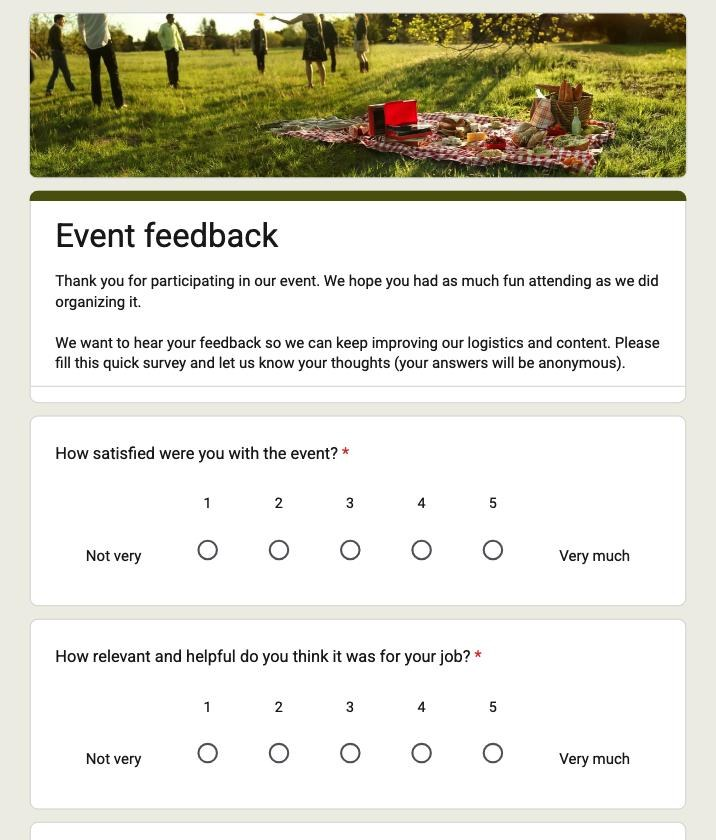
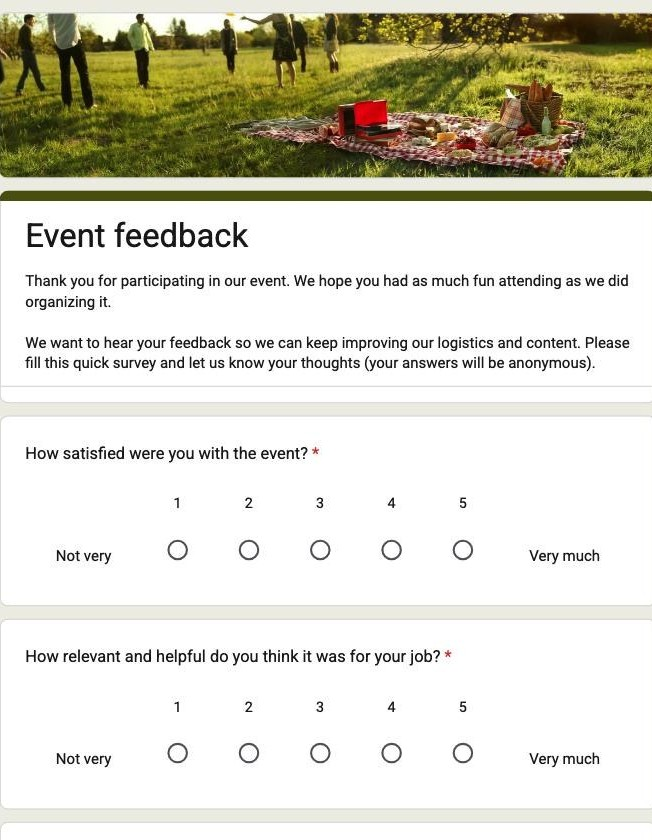
Make templates page skimmable and fix screenshot contrast
Readability and presentation pass on best-google-forms-templates.

- Re-cropped all 17 screenshots tight to the form card (uniform 652px).
  The old crop kept ~30px of Google's pale tinted page background on
  each side, which washed out against the white blog column.
- Unified image treatment: 1px #d8dce3 border plus a soft shadow, so
  each card reads as a distinct object instead of a floating tint.
- Replaced the "Formester equivalent." label with "In Formester." The
  old one read like a schema field repeated 17 times.
- Added an "All 17 at a glance" table (template, section, use it for,
  where it stops) with in-page jump links, and an id on every H4, so
  the page can be skimmed and navigated instead of read start to end.
- Rewrote description and metaDescription to lead with the per-template
  screenshots, keeping the JSON-LD copies in sync.

blacklist_check.py: 0 hits. ItemList still matches H4 order, FAQ 9=9.

diff --git a/content/blog/best-google-forms-templates.md b/content/blog/best-google-forms-templates.md
@@ -1,9 +1,9 @@
 ---
 slug: "best-google-forms-templates"
 title: "All 17 Google Forms Templates (and What to Use When They Run Out)"
-description: "Every template in the Google Forms gallery, all 17 across Work, Personal and Education, with what each one is good for and where it stops. Plus the Formester equivalent when the gallery runs out."
+description: "Every template in the Google Forms gallery, all 17 across Work, Personal and Education, with a screenshot of each, what it is good for and where it stops. Plus what to use when the gallery runs out."
 metaTitle: "All 17 Google Forms Templates: Full Gallery List"
-metaDescription: "All 17 Google Forms templates listed by section, with what each is good for and its limits. Plus what to use when the gallery runs out."
+metaDescription: "All 17 Google Forms templates with a screenshot of each, what it is good for and where it stops. Plus what to use when the gallery runs out."
 keywords: "google form templates,\ngoogle forms templates,\nfree google forms templates,\ngoogle form templates for students,\ngoogle form templates for business,\ngoogle forms template gallery,\nhow many templates does google forms have,"
 author: "Harish Kumar"
 authorProfile: "https://www.linkedin.com/in/harish-kumar2424/"
@@ -11,7 +11,7 @@ coverImgAlt: "Cover art for a guide to all 17 Google Forms templates"
 featured: false
 coverImg: {"url":"https://formester-strapi.s3.ap-south-1.amazonaws.com/all_17_google_forms_templates_cover_d301698a8f.png","width":2400,"height":1350}
 metaImage: []
-jsonld: [{"@context":"https://schema.org","@graph":[{"@type":"Organization","@id":"https://formester.com/#organization","url":"https://formester.com/","name":"Formester","logo":{"@type":"ImageObject","url":"https://formester.com/logo.png"}},{"@type":"WebPage","@id":"https://formester.com/blog/best-google-forms-templates/#webpage","url":"https://formester.com/blog/best-google-forms-templates/","name":"All 17 Google Forms Templates: Full Gallery List","isPartOf":{"@id":"https://formester.com/#organization"},"breadcrumb":{"@id":"https://formester.com/blog/best-google-forms-templates/#breadcrumb"},"inLanguage":"en-US","description":"All 17 Google Forms templates listed by section, with what each is good for and its limits. Plus what to use when the gallery runs out.","datePublished":"2026-06-04","dateModified":"2026-08-26"},{"@type":"BreadcrumbList","@id":"https://formester.com/blog/best-google-forms-templates/#breadcrumb","itemListElement":[{"@type":"ListItem","position":1,"name":"Home","item":"https://formester.com/"},{"@type":"ListItem","position":2,"name":"Blog","item":"https://formester.com/blog/"},{"@type":"ListItem","position":3,"name":"All 17 Google Forms Templates (and What to Use When They Run Out)","item":"https://formester.com/blog/best-google-forms-templates/"}]},{"@type":"BlogPosting","@id":"https://formester.com/blog/best-google-forms-templates/#article","headline":"All 17 Google Forms Templates (and What to Use When They Run Out)","image":"https://formester-strapi.s3.ap-south-1.amazonaws.com/all_17_google_forms_templates_cover_d301698a8f.png","author":{"@type":"Person","name":"Harish Kumar","url":"https://www.linkedin.com/in/harish-kumar2424/"},"publisher":{"@id":"https://formester.com/#organization"},"inLanguage":"en-US","description":"All 17 Google Forms templates listed by section, with what each is good for and its limits. Plus what to use when the gallery runs out.","datePublished":"2026-06-04","dateModified":"2026-08-26","mainEntityOfPage":{"@id":"https://formester.com/blog/best-google-forms-templates/#webpage"}},{"@type":"FAQPage","@id":"https://formester.com/blog/best-google-forms-templates/#faq","mainEntity":[{"@type":"Question","name":"How many templates does Google Forms have?","acceptedAnswer":{"@type":"Answer","text":"Seventeen in the native gallery: six under Work, six under Personal and five under Education. Workspace accounts may see an extra tab holding templates published by their own organisation, which sits on top of those 17."}},{"@type":"Question","name":"How do I copy a Google Forms template?","acceptedAnswer":{"@type":"Answer","text":"Click the tile in the template gallery. Google creates a copy in your Drive and opens it straight away, so there is no separate copy step. There is also no preview, which means clicking a template you were only curious about leaves a new form behind."}},{"@type":"Question","name":"Are Google Forms templates really free?","acceptedAnswer":{"@type":"Answer","text":"Yes, on both personal and Workspace accounts, with no limit on how many forms you create from them. The practical limit is storage: file upload answers consume your Drive quota, and a full Drive stops a form accepting uploads."}},{"@type":"Question","name":"Can I customise a Google Forms template after I copy it?","acceptedAnswer":{"@type":"Answer","text":"Yes, every question and setting is editable. Click a question to change its type or wording, toggle the asterisk to make it required, and use the Settings tab for form-level options such as collecting email addresses. Appearance is limited to theme colour, header image and four fonts."}},{"@type":"Question","name":"How do I create my own template in Google Forms?","acceptedAnswer":{"@type":"Answer","text":"There is no save-as-template button on a personal account. Build the form once, then use Make a copy from the three-dot menu each time you need a fresh one. Workspace admins can publish a form into a shared organisation gallery, which is the only true template feature Google offers."}},{"@type":"Question","name":"Can a Google Forms template collect payments?","acceptedAnswer":{"@type":"Answer","text":"No. Google Forms has no payment field and no processor integration, so order forms and ticketed events need a separate payment step after submission. Anything that has to take money on the form itself needs a builder with native payment fields."}},{"@type":"Question","name":"Can I add conditional logic to a Google Forms template?","acceptedAnswer":{"@type":"Answer","text":"Only at section level. A multiple choice answer can send someone to a different section, but you cannot show or hide an individual question based on a previous answer. Per-question logic needs a different builder."}},{"@type":"Question","name":"Can ChatGPT create a Google Form for me?","acceptedAnswer":{"@type":"Answer","text":"Not directly, because it has no write access to Google Forms. It can draft your questions and answer options for you to paste in. Tools built for this generate the form itself from a prompt."}},{"@type":"Question","name":"What is the best Google Forms template to start from?","acceptedAnswer":{"@type":"Answer","text":"Contact Information for anything that just gathers details, Event Registration for anything ticketed, and Blank Quiz for anything graded, because it is the only one with the quiz setting already switched on. Everything else in the gallery is a variation on those three shapes."}}]},{"@type":"ItemList","@id":"https://formester.com/blog/best-google-forms-templates/#itemlist","name":"Google Forms native template gallery","numberOfItems":17,"itemListElement":[{"@type":"ListItem","position":1,"name":"Event Feedback"},{"@type":"ListItem","position":2,"name":"Order Form"},{"@type":"ListItem","position":3,"name":"Job Application"},{"@type":"ListItem","position":4,"name":"Time Off Request"},{"@type":"ListItem","position":5,"name":"Work Request"},{"@type":"ListItem","position":6,"name":"Customer Feedback"},{"@type":"ListItem","position":7,"name":"Contact Information"},{"@type":"ListItem","position":8,"name":"Find a Time"},{"@type":"ListItem","position":9,"name":"Event RSVP"},{"@type":"ListItem","position":10,"name":"Party Invite"},{"@type":"ListItem","position":11,"name":"T-Shirt Sign Up"},{"@type":"ListItem","position":12,"name":"Event Registration"},{"@type":"ListItem","position":13,"name":"Blank Quiz"},{"@type":"ListItem","position":14,"name":"Exit Ticket"},{"@type":"ListItem","position":15,"name":"Assessment"},{"@type":"ListItem","position":16,"name":"Worksheet"},{"@type":"ListItem","position":17,"name":"Course Evaluation"}]},{"@type":"SoftwareApplication","@id":"https://formester.com/#software","url":"https://formester.com/","name":"Formester","applicationCategory":"BusinessApplication","operatingSystem":"Web, iOS, Android","offers":{"@type":"Offer","price":"0","priceCurrency":"USD","description":"Free forever plan, no credit card required"}}]}]
+jsonld: [{"@context":"https://schema.org","@graph":[{"@type":"Organization","@id":"https://formester.com/#organization","url":"https://formester.com/","name":"Formester","logo":{"@type":"ImageObject","url":"https://formester.com/logo.png"}},{"@type":"WebPage","@id":"https://formester.com/blog/best-google-forms-templates/#webpage","url":"https://formester.com/blog/best-google-forms-templates/","name":"All 17 Google Forms Templates: Full Gallery List","isPartOf":{"@id":"https://formester.com/#organization"},"breadcrumb":{"@id":"https://formester.com/blog/best-google-forms-templates/#breadcrumb"},"inLanguage":"en-US","description":"All 17 Google Forms templates with a screenshot of each, what it is good for and where it stops. Plus what to use when the gallery runs out.","datePublished":"2026-06-04","dateModified":"2026-08-26"},{"@type":"BreadcrumbList","@id":"https://formester.com/blog/best-google-forms-templates/#breadcrumb","itemListElement":[{"@type":"ListItem","position":1,"name":"Home","item":"https://formester.com/"},{"@type":"ListItem","position":2,"name":"Blog","item":"https://formester.com/blog/"},{"@type":"ListItem","position":3,"name":"All 17 Google Forms Templates (and What to Use When They Run Out)","item":"https://formester.com/blog/best-google-forms-templates/"}]},{"@type":"BlogPosting","@id":"https://formester.com/blog/best-google-forms-templates/#article","headline":"All 17 Google Forms Templates (and What to Use When They Run Out)","image":"https://formester-strapi.s3.ap-south-1.amazonaws.com/all_17_google_forms_templates_cover_d301698a8f.png","author":{"@type":"Person","name":"Harish Kumar","url":"https://www.linkedin.com/in/harish-kumar2424/"},"publisher":{"@id":"https://formester.com/#organization"},"inLanguage":"en-US","description":"All 17 Google Forms templates with a screenshot of each, what it is good for and where it stops. Plus what to use when the gallery runs out.","datePublished":"2026-06-04","dateModified":"2026-08-26","mainEntityOfPage":{"@id":"https://formester.com/blog/best-google-forms-templates/#webpage"}},{"@type":"FAQPage","@id":"https://formester.com/blog/best-google-forms-templates/#faq","mainEntity":[{"@type":"Question","name":"How many templates does Google Forms have?","acceptedAnswer":{"@type":"Answer","text":"Seventeen in the native gallery: six under Work, six under Personal and five under Education. Workspace accounts may see an extra tab holding templates published by their own organisation, which sits on top of those 17."}},{"@type":"Question","name":"How do I copy a Google Forms template?","acceptedAnswer":{"@type":"Answer","text":"Click the tile in the template gallery. Google creates a copy in your Drive and opens it straight away, so there is no separate copy step. There is also no preview, which means clicking a template you were only curious about leaves a new form behind."}},{"@type":"Question","name":"Are Google Forms templates really free?","acceptedAnswer":{"@type":"Answer","text":"Yes, on both personal and Workspace accounts, with no limit on how many forms you create from them. The practical limit is storage: file upload answers consume your Drive quota, and a full Drive stops a form accepting uploads."}},{"@type":"Question","name":"Can I customise a Google Forms template after I copy it?","acceptedAnswer":{"@type":"Answer","text":"Yes, every question and setting is editable. Click a question to change its type or wording, toggle the asterisk to make it required, and use the Settings tab for form-level options such as collecting email addresses. Appearance is limited to theme colour, header image and four fonts."}},{"@type":"Question","name":"How do I create my own template in Google Forms?","acceptedAnswer":{"@type":"Answer","text":"There is no save-as-template button on a personal account. Build the form once, then use Make a copy from the three-dot menu each time you need a fresh one. Workspace admins can publish a form into a shared organisation gallery, which is the only true template feature Google offers."}},{"@type":"Question","name":"Can a Google Forms template collect payments?","acceptedAnswer":{"@type":"Answer","text":"No. Google Forms has no payment field and no processor integration, so order forms and ticketed events need a separate payment step after submission. Anything that has to take money on the form itself needs a builder with native payment fields."}},{"@type":"Question","name":"Can I add conditional logic to a Google Forms template?","acceptedAnswer":{"@type":"Answer","text":"Only at section level. A multiple choice answer can send someone to a different section, but you cannot show or hide an individual question based on a previous answer. Per-question logic needs a different builder."}},{"@type":"Question","name":"Can ChatGPT create a Google Form for me?","acceptedAnswer":{"@type":"Answer","text":"Not directly, because it has no write access to Google Forms. It can draft your questions and answer options for you to paste in. Tools built for this generate the form itself from a prompt."}},{"@type":"Question","name":"What is the best Google Forms template to start from?","acceptedAnswer":{"@type":"Answer","text":"Contact Information for anything that just gathers details, Event Registration for anything ticketed, and Blank Quiz for anything graded, because it is the only one with the quiz setting already switched on. Everything else in the gallery is a variation on those three shapes."}}]},{"@type":"ItemList","@id":"https://formester.com/blog/best-google-forms-templates/#itemlist","name":"Google Forms native template gallery","numberOfItems":17,"itemListElement":[{"@type":"ListItem","position":1,"name":"Event Feedback"},{"@type":"ListItem","position":2,"name":"Order Form"},{"@type":"ListItem","position":3,"name":"Job Application"},{"@type":"ListItem","position":4,"name":"Time Off Request"},{"@type":"ListItem","position":5,"name":"Work Request"},{"@type":"ListItem","position":6,"name":"Customer Feedback"},{"@type":"ListItem","position":7,"name":"Contact Information"},{"@type":"ListItem","position":8,"name":"Find a Time"},{"@type":"ListItem","position":9,"name":"Event RSVP"},{"@type":"ListItem","position":10,"name":"Party Invite"},{"@type":"ListItem","position":11,"name":"T-Shirt Sign Up"},{"@type":"ListItem","position":12,"name":"Event Registration"},{"@type":"ListItem","position":13,"name":"Blank Quiz"},{"@type":"ListItem","position":14,"name":"Exit Ticket"},{"@type":"ListItem","position":15,"name":"Assessment"},{"@type":"ListItem","position":16,"name":"Worksheet"},{"@type":"ListItem","position":17,"name":"Course Evaluation"}]},{"@type":"SoftwareApplication","@id":"https://formester.com/#software","url":"https://formester.com/","name":"Formester","applicationCategory":"BusinessApplication","operatingSystem":"Web, iOS, Android","offers":{"@type":"Offer","price":"0","priceCurrency":"USD","description":"Free forever plan, no credit card required"}}]}]
 createdAt: "2025-05-13T06:17:24.920Z"
 updatedAt: "2026-08-26T12:42:46Z"
 publishedAt: "2026-06-04T14:26:39.065Z"
@@ -22,120 +22,149 @@ publishedAt: "2026-06-04T14:26:39.065Z"
 
 <blockquote><p>Google Forms ships <strong>17 templates</strong> in its native gallery, split across Work (6), Personal (6) and Education (5). Open them at <a href="https://docs.google.com/forms/u/0/?ftv=1">forms.google.com</a> and click one. It opens as a new form in your Drive straight away. There is no separate "copy" step and no cost.</p></blockquote>
 
+<h2>All 17 at a glance</h2>
+
+<p>Jump to any template for the screenshot and the detail. The last column is the thing that sends people looking for another tool.</p>
+
+<div class="table-wrap">
+<table>
+<thead><tr><th>Template</th><th>Section</th><th>Use it for</th><th>Where it stops</th></tr></thead>
+<tbody>
+<tr><td><a href="#event-feedback">Event Feedback</a></td><td>Work</td><td>Post-event ratings</td><td>Cannot average the score</td></tr>
+<tr><td><a href="#order-form">Order Form</a></td><td>Work</td><td>Simple orders</td><td>No payment field, no totals</td></tr>
+<tr><td><a href="#job-application">Job Application</a></td><td>Work</td><td>Hiring intake</td><td>Same questions for every role</td></tr>
+<tr><td><a href="#time-off-request">Time Off Request</a></td><td>Work</td><td>Leave requests</td><td>No approval step</td></tr>
+<tr><td><a href="#work-request">Work Request</a></td><td>Work</td><td>Internal tickets</td><td>Priority does not route</td></tr>
+<tr><td><a href="#customer-feedback">Customer Feedback</a></td><td>Work</td><td>Feedback and bug reports</td><td>Records ratings, does not score them</td></tr>
+<tr><td><a href="#contact-information">Contact Information</a></td><td>Personal</td><td>Basic contact details</td><td>Email is never verified</td></tr>
+<tr><td><a href="#find-a-time">Find a Time</a></td><td>Personal</td><td>Group availability</td><td>Slots never close</td></tr>
+<tr><td><a href="#event-rsvp">Event RSVP</a></td><td>Personal</td><td>Headcount for an event</td><td>No capacity cap</td></tr>
+<tr><td><a href="#party-invite">Party Invite</a></td><td>Personal</td><td>Social invites</td><td>No capacity cap, header image only</td></tr>
+<tr><td><a href="#t-shirt-sign-up">T-Shirt Sign Up</a></td><td>Personal</td><td>Collecting sizes</td><td>No stock control</td></tr>
+<tr><td><a href="#event-registration">Event Registration</a></td><td>Personal</td><td>Ticketed events</td><td>No payment, no cap</td></tr>
+<tr><td><a href="#blank-quiz">Blank Quiz</a></td><td>Education</td><td>Graded tests</td><td>No timer, no partial credit</td></tr>
+<tr><td><a href="#exit-ticket">Exit Ticket</a></td><td>Education</td><td>End-of-lesson checks</td><td>Responses not grouped by class</td></tr>
+<tr><td><a href="#assessment">Assessment</a></td><td>Education</td><td>Longer graded sets</td><td>Answer keys on six question types</td></tr>
+<tr><td><a href="#worksheet">Worksheet</a></td><td>Education</td><td>Practice with images</td><td>No reuse across classes</td></tr>
+<tr><td><a href="#course-evaluation">Course Evaluation</a></td><td>Education</td><td>End-of-course ratings</td><td>Anonymous or de-duplicated, not both</td></tr>
+</tbody>
+</table>
+</div>
+
 <h2>The 17 templates Google Forms actually ships</h2>
 
 <p>The gallery lives on the Google Forms home screen. Click <strong>Template gallery</strong> at the top and you get three sections. Clicking any tile creates a working copy in your own Drive straight away.</p>
 
 <h3>Work (6 templates)</h3>
 
-<p><img src="https://formester-strapi.s3.ap-south-1.amazonaws.com/gforms_template_gallery_work_fcd75d04b6.jpg" alt="Google Forms template gallery Work section showing Event Feedback, Order Form, Job Application, Time Off Request, Work Request and Customer Feedback" loading="lazy" style="width:100%;max-width:900px;height:auto;border-radius:8px;border:1px solid #e5e7eb;margin:16px 0;" /></p>
+<p><img src="https://formester-strapi.s3.ap-south-1.amazonaws.com/gforms_template_gallery_work_fcd75d04b6.jpg" alt="Google Forms template gallery Work section showing Event Feedback, Order Form, Job Application, Time Off Request, Work Request and Customer Feedback" loading="lazy" style="width:100%;max-width:100%;height:auto;border-radius:10px;border:1px solid #d8dce3;box-shadow:0 1px 3px rgba(16,24,40,0.08);margin:18px 0;" /></p>
 
-<h4>Event Feedback</h4>
+<h4 id="event-feedback">Event Feedback</h4>
 <p>Linear scales for the ratings and one paragraph field for the comments people actually remember. Five questions, no title page.</p>
-<p><img src="/blog/google-forms-templates/00-event-feedback.jpg" alt="Google Forms Event Feedback template showing a 1 to 5 satisfaction scale from Not very to Very much" loading="lazy" style="width:100%;max-width:700px;height:auto;border-radius:8px;border:1px solid #e5e7eb;margin:16px 0;" /></p>
+<p><img src="/blog/google-forms-templates/00-event-feedback.jpg" alt="Google Forms Event Feedback template showing a 1 to 5 satisfaction scale from Not very to Very much" loading="lazy" style="width:100%;max-width:652px;height:auto;border-radius:10px;border:1px solid #d8dce3;box-shadow:0 1px 3px rgba(16,24,40,0.08);margin:18px 0;" /></p>
 <p><strong>Where it stops.</strong> It cannot calculate an average, so the score you report is worked out in the response sheet afterwards.</p>
-<p><strong>Formester equivalent.</strong> <a href="https://formester.com/templates/event-feedback-survey-698/">Event Feedback Survey</a>. Rating summaries are computed for you per question, and drop-off analytics show where people abandoned.</p>
+<p><strong>In Formester.</strong> <a href="https://formester.com/templates/event-feedback-survey-698/">Event Feedback Survey</a>. Rating summaries are computed for you per question, and drop-off analytics show where people abandoned.</p>
 
-<h4>Order Form</h4>
+<h4 id="order-form">Order Form</h4>
 <p>Item picker, quantity, delivery address. The closest the gallery gets to commerce.</p>
-<p><img src="/blog/google-forms-templates/01-order-form.jpg" alt="Google Forms Order Form template showing a new or existing customer choice and a product number field" loading="lazy" style="width:100%;max-width:700px;height:auto;border-radius:8px;border:1px solid #e5e7eb;margin:16px 0;" /></p>
+<p><img src="/blog/google-forms-templates/01-order-form.jpg" alt="Google Forms Order Form template showing a new or existing customer choice and a product number field" loading="lazy" style="width:100%;max-width:652px;height:auto;border-radius:10px;border:1px solid #d8dce3;box-shadow:0 1px 3px rgba(16,24,40,0.08);margin:18px 0;" /></p>
 <p><strong>Where it stops.</strong> There is no payment field and no field that multiplies quantity by price, so the total is typed by hand and never validated.</p>
-<p><strong>Formester equivalent.</strong> <a href="https://formester.com/templates/product-order-form-33229/">Product Order Form</a>. Calculated line totals, and Stripe or PayPal collected on the form itself instead of a separate payment step.</p>
+<p><strong>In Formester.</strong> <a href="https://formester.com/templates/product-order-form-33229/">Product Order Form</a>. Calculated line totals, and Stripe or PayPal collected on the form itself instead of a separate payment step.</p>
 
-<h4>Job Application</h4>
+<h4 id="job-application">Job Application</h4>
 <p>Name, contact and position applied for, plus a file upload for the CV.</p>
-<p><img src="/blog/google-forms-templates/02-job-application.jpg" alt="Google Forms Job Application template showing required Name, Email and Phone number fields" loading="lazy" style="width:100%;max-width:700px;height:auto;border-radius:8px;border:1px solid #e5e7eb;margin:16px 0;" /></p>
+<p><img src="/blog/google-forms-templates/02-job-application.jpg" alt="Google Forms Job Application template showing required Name, Email and Phone number fields" loading="lazy" style="width:100%;max-width:652px;height:auto;border-radius:10px;border:1px solid #d8dce3;box-shadow:0 1px 3px rgba(16,24,40,0.08);margin:18px 0;" /></p>
 <p><strong>Where it stops.</strong> Uploads consume your Drive quota, and every applicant answers the same questions regardless of the role.</p>
-<p><strong>Formester equivalent.</strong> <a href="https://formester.com/templates/job-application-form-699/">Job Application Form</a>. Uploads sit outside your Drive quota, and conditional questions branch by role so a developer is not asked about a driving licence.</p>
+<p><strong>In Formester.</strong> <a href="https://formester.com/templates/job-application-form-699/">Job Application Form</a>. Uploads sit outside your Drive quota, and conditional questions branch by role so a developer is not asked about a driving licence.</p>
 
-<h4>Time Off Request</h4>
+<h4 id="time-off-request">Time Off Request</h4>
 <p>Start and end dates, leave type, cover arrangements.</p>
-<p><img src="/blog/google-forms-templates/03-time-off-request.jpg" alt="Google Forms Time Off Request template showing Name, Leave dates and an AM, PM or Full day choice" loading="lazy" style="width:100%;max-width:700px;height:auto;border-radius:8px;border:1px solid #e5e7eb;margin:16px 0;" /></p>
+<p><img src="/blog/google-forms-templates/03-time-off-request.jpg" alt="Google Forms Time Off Request template showing Name, Leave dates and an AM, PM or Full day choice" loading="lazy" style="width:100%;max-width:652px;height:auto;border-radius:10px;border:1px solid #d8dce3;box-shadow:0 1px 3px rgba(16,24,40,0.08);margin:18px 0;" /></p>
 <p><strong>Where it stops.</strong> No approval step exists. The manager finds out by watching the response sheet, and the requester never gets a decision back.</p>
-<p><strong>Formester equivalent.</strong> <a href="https://formester.com/templates/time-off-request-form-2780/">Time Off Request Form</a>. Routes to an approver and emails the outcome back, so the request has an end state rather than sitting in a spreadsheet.</p>
+<p><strong>In Formester.</strong> <a href="https://formester.com/templates/time-off-request-form-2780/">Time Off Request Form</a>. Routes to an approver and emails the outcome back, so the request has an end state rather than sitting in a spreadsheet.</p>
 
-<h4>Work Request</h4>
+<h4 id="work-request">Work Request</h4>
 <p>Internal ticket intake: requester, category, priority, description.</p>
-<p><img src="/blog/google-forms-templates/04-work-request.jpg" alt="Google Forms Work Request template showing a Personal info section with Name and Email address" loading="lazy" style="width:100%;max-width:700px;height:auto;border-radius:8px;border:1px solid #e5e7eb;margin:16px 0;" /></p>
+<p><img src="/blog/google-forms-templates/04-work-request.jpg" alt="Google Forms Work Request template showing a Personal info section with Name and Email address" loading="lazy" style="width:100%;max-width:652px;height:auto;border-radius:10px;border:1px solid #d8dce3;box-shadow:0 1px 3px rgba(16,24,40,0.08);margin:18px 0;" /></p>
 <p><strong>Where it stops.</strong> Priority is a dropdown with no routing behind it, so an urgent request looks identical to a trivial one until someone reads it.</p>
-<p><strong>Formester equivalent.</strong> <a href="https://formester.com/templates/change-request-form-23801/">Change Request Form</a>. Priority drives the notification, so urgent tickets reach the right person immediately.</p>
+<p><strong>In Formester.</strong> <a href="https://formester.com/templates/change-request-form-23801/">Change Request Form</a>. Priority drives the notification, so urgent tickets reach the right person immediately.</p>
 
-<h4>Customer Feedback</h4>
+<h4 id="customer-feedback">Customer Feedback</h4>
 <p>Feedback type and a rating, plus free text. The nearest thing to an NPS survey in the gallery.</p>
-<p><img src="/blog/google-forms-templates/05-customer-feedback.jpg" alt="Google Forms Customer Feedback template showing Comments, Questions, Bug Reports and Feature Request options" loading="lazy" style="width:100%;max-width:700px;height:auto;border-radius:8px;border:1px solid #e5e7eb;margin:16px 0;" /></p>
+<p><img src="/blog/google-forms-templates/05-customer-feedback.jpg" alt="Google Forms Customer Feedback template showing Comments, Questions, Bug Reports and Feature Request options" loading="lazy" style="width:100%;max-width:652px;height:auto;border-radius:10px;border:1px solid #d8dce3;box-shadow:0 1px 3px rgba(16,24,40,0.08);margin:18px 0;" /></p>
 <p><strong>Where it stops.</strong> It records the rating but does not score it, so there is no NPS number without building the formula yourself.</p>
-<p><strong>Formester equivalent.</strong> <a href="https://formester.com/templates/customer-feedback-form-31840/">Customer Feedback Form</a>. Rating fields roll up into a summary automatically, including per-question breakdowns.</p>
+<p><strong>In Formester.</strong> <a href="https://formester.com/templates/customer-feedback-form-31840/">Customer Feedback Form</a>. Rating fields roll up into a summary automatically, including per-question breakdowns.</p>
 
 <h3>Personal (6 templates)</h3>
-<h4>Contact Information</h4>
+<h4 id="contact-information">Contact Information</h4>
 <p>Name, email, address, phone. The plainest template in the gallery and the most copied.</p>
-<p><img src="/blog/google-forms-templates/06-contact-information.jpg" alt="Google Forms Contact Information template showing Name, Email, Address and Phone number fields" loading="lazy" style="width:100%;max-width:700px;height:auto;border-radius:8px;border:1px solid #e5e7eb;margin:16px 0;" /></p>
+<p><img src="/blog/google-forms-templates/06-contact-information.jpg" alt="Google Forms Contact Information template showing Name, Email, Address and Phone number fields" loading="lazy" style="width:100%;max-width:652px;height:auto;border-radius:10px;border:1px solid #d8dce3;box-shadow:0 1px 3px rgba(16,24,40,0.08);margin:18px 0;" /></p>
 <p><strong>Where it stops.</strong> Nothing checks the email is real, so a typo enters your list looking perfectly valid.</p>
-<p><strong>Formester equivalent.</strong> <a href="https://formester.com/templates/contact-form-template-1660/">Contact Form Template</a>. Email Confirmation sends a one-time code to the address, so only a working inbox gets through.</p>
+<p><strong>In Formester.</strong> <a href="https://formester.com/templates/contact-form-template-1660/">Contact Form Template</a>. Email Confirmation sends a one-time code to the address, so only a working inbox gets through.</p>
 
-<h4>Find a Time</h4>
+<h4 id="find-a-time">Find a Time</h4>
 <p>A checkbox grid of days against time slots, so a group can mark when they are free.</p>
-<p><img src="/blog/google-forms-templates/07-find-a-time.jpg" alt="Google Forms Find a Time template showing a Monday to Friday availability grid across Morning, Midday, Afternoon and Evening" loading="lazy" style="width:100%;max-width:700px;height:auto;border-radius:8px;border:1px solid #e5e7eb;margin:16px 0;" /></p>
+<p><img src="/blog/google-forms-templates/07-find-a-time.jpg" alt="Google Forms Find a Time template showing a Monday to Friday availability grid across Morning, Midday, Afternoon and Evening" loading="lazy" style="width:100%;max-width:652px;height:auto;border-radius:10px;border:1px solid #d8dce3;box-shadow:0 1px 3px rgba(16,24,40,0.08);margin:18px 0;" /></p>
 <p><strong>Where it stops.</strong> It does not read anyone's calendar and it does not close a slot once it fills, so two people can pick the same time.</p>
-<p><strong>Formester equivalent.</strong> <a href="https://formester.com/templates/appointment-request-form-13454/">Appointment Request Form</a>. Offers real slots and stops accepting a slot once it is taken, instead of collecting preferences you reconcile by hand.</p>
+<p><strong>In Formester.</strong> <a href="https://formester.com/templates/appointment-request-form-13454/">Appointment Request Form</a>. Offers real slots and stops accepting a slot once it is taken, instead of collecting preferences you reconcile by hand.</p>
 
-<h4>Event RSVP</h4>
+<h4 id="event-rsvp">Event RSVP</h4>
 <p>Attending yes or no, guest count, dietary notes.</p>
-<p><img src="/blog/google-forms-templates/08-event-rsvp.jpg" alt="Google Forms Event RSVP template showing a Can you attend question and a field for names of attendees" loading="lazy" style="width:100%;max-width:700px;height:auto;border-radius:8px;border:1px solid #e5e7eb;margin:16px 0;" /></p>
+<p><img src="/blog/google-forms-templates/08-event-rsvp.jpg" alt="Google Forms Event RSVP template showing a Can you attend question and a field for names of attendees" loading="lazy" style="width:100%;max-width:652px;height:auto;border-radius:10px;border:1px solid #d8dce3;box-shadow:0 1px 3px rgba(16,24,40,0.08);margin:18px 0;" /></p>
 <p><strong>Where it stops.</strong> There is no capacity limit on a question, so RSVPs keep arriving after the room is full.</p>
-<p><strong>Formester equivalent.</strong> <a href="https://formester.com/templates/rsvp-form-21586/">RSVP Form</a>. Guest-count logic plus a submission cap, and the attendee gets a formatted confirmation back.</p>
+<p><strong>In Formester.</strong> <a href="https://formester.com/templates/rsvp-form-21586/">RSVP Form</a>. Guest-count logic plus a submission cap, and the attendee gets a formatted confirmation back.</p>
 
-<h4>Party Invite</h4>
+<h4 id="party-invite">Party Invite</h4>
 <p>The RSVP shape with a friendlier header image and a what-are-you-bringing question.</p>
-<p><img src="/blog/google-forms-templates/09-party-invite.jpg" alt="Google Forms Party Invite template showing a name field, attendance choice and party size question" loading="lazy" style="width:100%;max-width:700px;height:auto;border-radius:8px;border:1px solid #e5e7eb;margin:16px 0;" /></p>
+<p><img src="/blog/google-forms-templates/09-party-invite.jpg" alt="Google Forms Party Invite template showing a name field, attendance choice and party size question" loading="lazy" style="width:100%;max-width:652px;height:auto;border-radius:10px;border:1px solid #d8dce3;box-shadow:0 1px 3px rgba(16,24,40,0.08);margin:18px 0;" /></p>
 <p><strong>Where it stops.</strong> Same capacity problem as RSVP, and the header image is the only thing you can really style.</p>
-<p><strong>Formester equivalent.</strong> <a href="https://formester.com/templates/party-rsvp-form-21592/">Party RSVP Form</a>. Full branding rather than a header image, and a closing date so the invite stops accepting replies on its own.</p>
+<p><strong>In Formester.</strong> <a href="https://formester.com/templates/party-rsvp-form-21592/">Party RSVP Form</a>. Full branding rather than a header image, and a closing date so the invite stops accepting replies on its own.</p>
 
-<h4>T-Shirt Sign Up</h4>
+<h4 id="t-shirt-sign-up">T-Shirt Sign Up</h4>
 <p>A size picker plus a name field, for ordering team or event shirts.</p>
-<p><img src="/blog/google-forms-templates/10-t-shirt-sign-up.jpg" alt="Google Forms T-Shirt Sign Up template showing XS to XL size options and a shirt preview image" loading="lazy" style="width:100%;max-width:700px;height:auto;border-radius:8px;border:1px solid #e5e7eb;margin:16px 0;" /></p>
+<p><img src="/blog/google-forms-templates/10-t-shirt-sign-up.jpg" alt="Google Forms T-Shirt Sign Up template showing XS to XL size options and a shirt preview image" loading="lazy" style="width:100%;max-width:652px;height:auto;border-radius:10px;border:1px solid #d8dce3;box-shadow:0 1px 3px rgba(16,24,40,0.08);margin:18px 0;" /></p>
 <p><strong>Where it stops.</strong> No stock control at all, so two people can both claim the last large and you find out later.</p>
-<p><strong>Formester equivalent.</strong> <a href="https://formester.com/templates/apparel-order-form-32860/">Apparel Order Form</a>. Per-option limits, so a size disappears from the picker once it runs out, and payment collected inline.</p>
+<p><strong>In Formester.</strong> <a href="https://formester.com/templates/apparel-order-form-32860/">Apparel Order Form</a>. Per-option limits, so a size disappears from the picker once it runs out, and payment collected inline.</p>
 
-<h4>Event Registration</h4>
+<h4 id="event-registration">Event Registration</h4>
 <p>Attendee details, session choice, contact information. The one to start from for anything ticketed.</p>
-<p><img src="/blog/google-forms-templates/11-event-registration.jpg" alt="Google Forms Event Registration template showing event timing and address above Name, Email and Organization fields" loading="lazy" style="width:100%;max-width:700px;height:auto;border-radius:8px;border:1px solid #e5e7eb;margin:16px 0;" /></p>
+<p><img src="/blog/google-forms-templates/11-event-registration.jpg" alt="Google Forms Event Registration template showing event timing and address above Name, Email and Organization fields" loading="lazy" style="width:100%;max-width:652px;height:auto;border-radius:10px;border:1px solid #d8dce3;box-shadow:0 1px 3px rgba(16,24,40,0.08);margin:18px 0;" /></p>
 <p><strong>Where it stops.</strong> No payment field and no capacity cap, which are the two things a ticketed event needs most.</p>
-<p><strong>Formester equivalent.</strong> <a href="https://formester.com/templates/event-registration-form-1827/">Event Registration Form</a>. Takes the ticket payment on the form and closes registration at your cap without you watching it.</p>
+<p><strong>In Formester.</strong> <a href="https://formester.com/templates/event-registration-form-1827/">Event Registration Form</a>. Takes the ticket payment on the form and closes registration at your cap without you watching it.</p>
 
 <h3>Education (5 templates)</h3>
 
-<p><img src="https://formester-strapi.s3.ap-south-1.amazonaws.com/gforms_template_gallery_education_19e9a2f22f.jpg" alt="Google Forms template gallery Education section showing Blank Quiz, Exit Ticket, Assessment, Worksheet and Course Evaluation" loading="lazy" style="width:100%;max-width:900px;height:auto;border-radius:8px;border:1px solid #e5e7eb;margin:16px 0;" /></p>
+<p><img src="https://formester-strapi.s3.ap-south-1.amazonaws.com/gforms_template_gallery_education_19e9a2f22f.jpg" alt="Google Forms template gallery Education section showing Blank Quiz, Exit Ticket, Assessment, Worksheet and Course Evaluation" loading="lazy" style="width:100%;max-width:100%;height:auto;border-radius:10px;border:1px solid #d8dce3;box-shadow:0 1px 3px rgba(16,24,40,0.08);margin:18px 0;" /></p>
 
-<h4>Blank Quiz</h4>
+<h4 id="blank-quiz">Blank Quiz</h4>
 <p>The only template with Make this a quiz already switched on, so answer keys and point values are live from the first question.</p>
-<p><img src="/blog/google-forms-templates/12-blank-quiz.jpg" alt="Google Forms Blank Quiz template showing a single Untitled Question with one empty option" loading="lazy" style="width:100%;max-width:700px;height:auto;border-radius:8px;border:1px solid #e5e7eb;margin:16px 0;" /></p>
+<p><img src="/blog/google-forms-templates/12-blank-quiz.jpg" alt="Google Forms Blank Quiz template showing a single Untitled Question with one empty option" loading="lazy" style="width:100%;max-width:652px;height:auto;border-radius:10px;border:1px solid #d8dce3;box-shadow:0 1px 3px rgba(16,24,40,0.08);margin:18px 0;" /></p>
 <p><strong>Where it stops.</strong> No timer and no partial credit. A short answer near miss is left ungraded rather than marked wrong.</p>
-<p><strong>Formester equivalent.</strong> <a href="https://formester.com/templates/general-knowledge-mcq-quiz-27608/">General Knowledge MCQ Quiz</a>. Adds a timer, negative marking and partial credit, so a mixed-format quiz grades itself end to end.</p>
+<p><strong>In Formester.</strong> <a href="https://formester.com/templates/general-knowledge-mcq-quiz-27608/">General Knowledge MCQ Quiz</a>. Adds a timer, negative marking and partial credit, so a mixed-format quiz grades itself end to end.</p>
 
-<h4>Exit Ticket</h4>
+<h4 id="exit-ticket">Exit Ticket</h4>
 <p>Three short questions for the end of a lesson. Short enough that it actually gets answered on the way out.</p>
-<p><img src="/blog/google-forms-templates/13-exit-ticket.jpg" alt="Google Forms Exit Ticket template asking what one important thing the student learned in class today" loading="lazy" style="width:100%;max-width:700px;height:auto;border-radius:8px;border:1px solid #e5e7eb;margin:16px 0;" /></p>
+<p><img src="/blog/google-forms-templates/13-exit-ticket.jpg" alt="Google Forms Exit Ticket template asking what one important thing the student learned in class today" loading="lazy" style="width:100%;max-width:652px;height:auto;border-radius:10px;border:1px solid #d8dce3;box-shadow:0 1px 3px rgba(16,24,40,0.08);margin:18px 0;" /></p>
 <p><strong>Where it stops.</strong> Responses are not grouped by class or date, so a weekly exit ticket becomes one long undifferentiated sheet.</p>
-<p><strong>Formester equivalent.</strong> None that matches directly. The closest options are in the <a href="https://formester.com/templates/categories/quizzes/">quiz templates</a> category, which solve grading rather than this particular shape.</p>
+<p><strong>In Formester.</strong> No direct match. The closest are the <a href="https://formester.com/templates/categories/quizzes/">quiz templates</a> , which solve grading rather than this shape.</p>
 
-<h4>Assessment</h4>
+<h4 id="assessment">Assessment</h4>
 <p>A longer graded question set with name and email capture at the top.</p>
-<p><img src="/blog/google-forms-templates/14-assessment.jpg" alt="Google Forms Assessment template showing Name and Email fields above a Quiz Questions section" loading="lazy" style="width:100%;max-width:700px;height:auto;border-radius:8px;border:1px solid #e5e7eb;margin:16px 0;" /></p>
+<p><img src="/blog/google-forms-templates/14-assessment.jpg" alt="Google Forms Assessment template showing Name and Email fields above a Quiz Questions section" loading="lazy" style="width:100%;max-width:652px;height:auto;border-radius:10px;border:1px solid #d8dce3;box-shadow:0 1px 3px rgba(16,24,40,0.08);margin:18px 0;" /></p>
 <p><strong>Where it stops.</strong> Answer keys only work on six question types, so anything free-form still needs marking by hand.</p>
-<p><strong>Formester equivalent.</strong> <a href="https://formester.com/templates/spelling-bee-practice-test-46207/">Spelling Bee Practice Test</a>. Instant feedback and explanations on wrong answers, so the test teaches rather than only scoring.</p>
+<p><strong>In Formester.</strong> <a href="https://formester.com/templates/spelling-bee-practice-test-46207/">Spelling Bee Practice Test</a>. Instant feedback and explanations on wrong answers, so the test teaches rather than only scoring.</p>
 
-<h4>Worksheet</h4>
+<h4 id="worksheet">Worksheet</h4>
 <p>Structured practice questions with an image field per question, for homework and in-class work.</p>
-<p><img src="/blog/google-forms-templates/15-worksheet.jpg" alt="Google Forms Worksheet template showing Name and Email fields above an image-based question" loading="lazy" style="width:100%;max-width:700px;height:auto;border-radius:8px;border:1px solid #e5e7eb;margin:16px 0;" /></p>
+<p><img src="/blog/google-forms-templates/15-worksheet.jpg" alt="Google Forms Worksheet template showing Name and Email fields above an image-based question" loading="lazy" style="width:100%;max-width:652px;height:auto;border-radius:10px;border:1px solid #d8dce3;box-shadow:0 1px 3px rgba(16,24,40,0.08);margin:18px 0;" /></p>
 <p><strong>Where it stops.</strong> There is no way to reuse one worksheet across classes without duplicating the whole form each time.</p>
-<p><strong>Formester equivalent.</strong> None that matches directly either. The same quiz templates category is the nearest thing, and it solves grading rather than reuse across classes.</p>
+<p><strong>In Formester.</strong> No direct match either. The nearest thing solves grading, not reuse across classes.</p>
 
-<h4>Course Evaluation</h4>
+<h4 id="course-evaluation">Course Evaluation</h4>
 <p>End-of-course ratings across teaching, materials and workload.</p>
-<p><img src="/blog/google-forms-templates/16-course-evaluation.jpg" alt="Google Forms Course Evaluation template showing Class name, Instructor and a Poor to Excellent effort grid" loading="lazy" style="width:100%;max-width:700px;height:auto;border-radius:8px;border:1px solid #e5e7eb;margin:16px 0;" /></p>
+<p><img src="/blog/google-forms-templates/16-course-evaluation.jpg" alt="Google Forms Course Evaluation template showing Class name, Instructor and a Poor to Excellent effort grid" loading="lazy" style="width:100%;max-width:652px;height:auto;border-radius:10px;border:1px solid #d8dce3;box-shadow:0 1px 3px rgba(16,24,40,0.08);margin:18px 0;" /></p>
 <p><strong>Where it stops.</strong> Anonymity and duplicate prevention are mutually exclusive here: stopping repeat submissions requires sign-in, which removes the anonymity.</p>
-<p><strong>Formester equivalent.</strong> <a href="https://formester.com/templates/course-evaluation-form-25364/">Course Evaluation Form</a>. Anonymous submissions that still block duplicates, so honest feedback and one-response-per-student both hold.</p>
+<p><strong>In Formester.</strong> <a href="https://formester.com/templates/course-evaluation-form-25364/">Course Evaluation Form</a>. Anonymous submissions that still block duplicates, so honest feedback and one-response-per-student both hold.</p>
 
 <h2>How to open a Google Forms template</h2>
 
